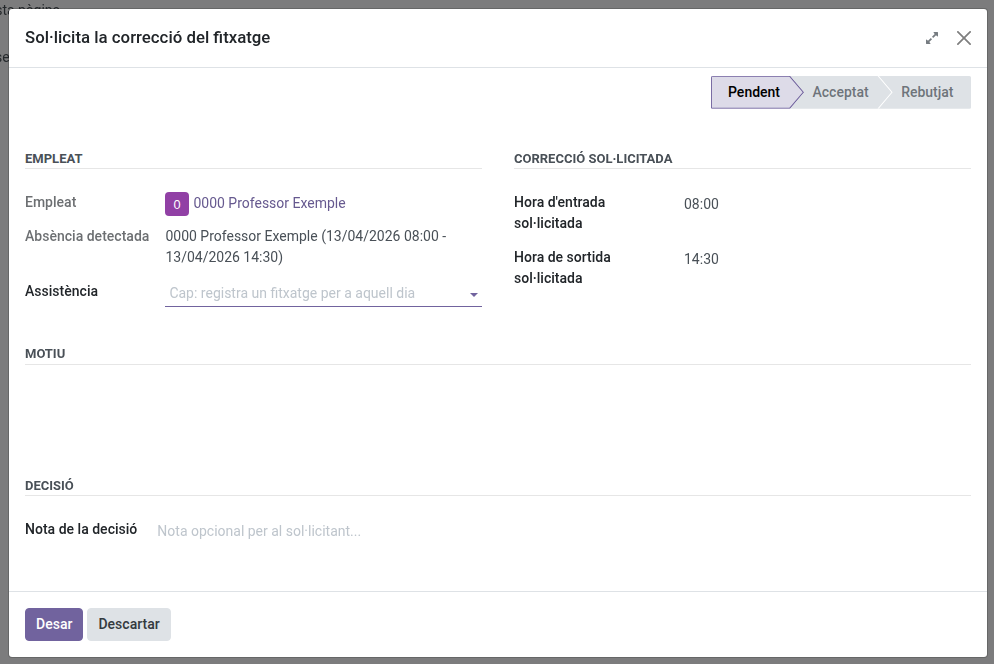
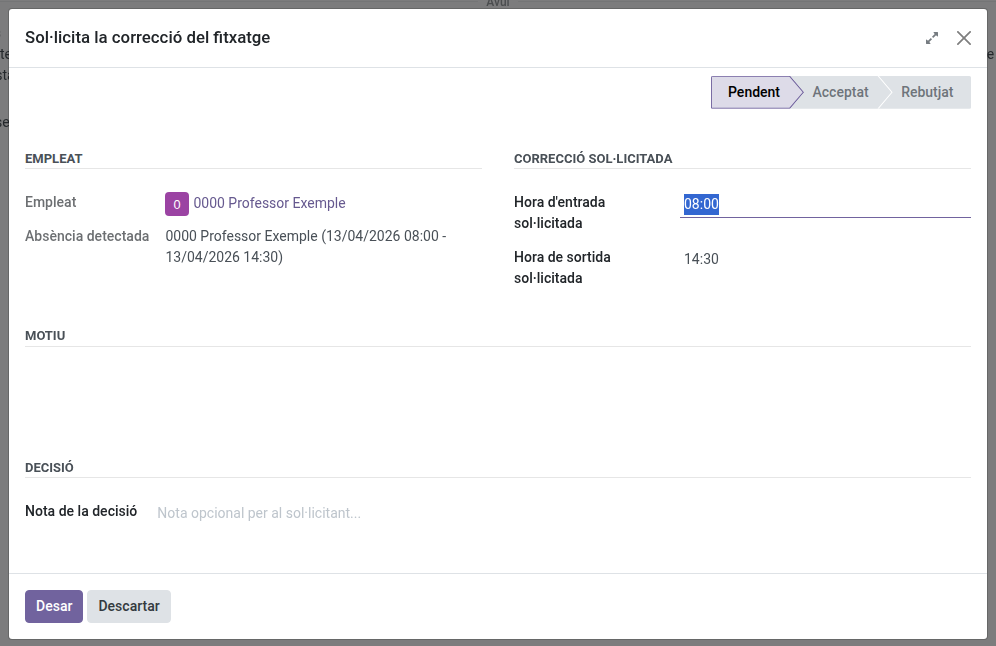
735: attendance chosen automatically (red one for a day without check-in), teacher notices on the detected absence

diff --git a/static/tests/tours/absence_pending_tour.js b/static/tests/tours/absence_pending_tour.js
@@ -79,6 +79,11 @@ registry.category("web_tour.tours").add("ems_absence_pending_teacher", {
             trigger: ".o_form_statusbar .o_field_widget[name='state']:not(:has([data-value='pending']))",
             content: "Without the 'To review' step, a stage the teacher never sees (issue #707)",
         },
+        {
+            // Issue #735: both ways out, one sentence each.
+            trigger: ".o_form_view .alert-info p:nth-of-type(2)",
+            content: "A notice tells the teacher what to do",
+        },
         ...clickAction("action_request_absence", "Request the absence"),
         {
             trigger: ".o_form_view .o_field_widget[name='request_date_from'] input",
@@ -125,8 +130,8 @@ registry.category("web_tour.tours").add("ems_absence_pending_teacher", {
             run: "click",
         },
         {
-            trigger: "body:not(:has(.modal)) .o_form_view .o_field_widget[name='origin']",
-            content: "Back on the detected absence",
+            trigger: "body:not(:has(.modal)) .o_form_view .alert-info:not(:has(p))",
+            content: "Back on the detected absence, which now says the correction is being reviewed",
         },
     ],
 });

diff --git a/models/attendance/attendance_correction.py b/models/attendance/attendance_correction.py
@@ -45,8 +45,6 @@ class ems_attendance_correction(models.Model):
         readonly=True,
         default=lambda self: self.env.context.get("default_absence_pending_id"),
     )
-    allowed_attendance_ids = fields.Many2many(
-        string="Attendances of that day", comodel_name="hr.attendance", compute="_compute_allowed_attendance_ids")
     employee_id = fields.Many2one(
         string="Employee", comodel_name="hr.employee", compute="_compute_employee_id", store=True, readonly=True)
     # NOTE: snapshotted at create() time (not related to attendance_id.check_in/out) so the
@@ -54,6 +52,9 @@ class ems_attendance_correction(models.Model):
     # is what lets action_reject()/re-deciding restore it later.
     original_check_in = fields.Datetime(string="Original check-in", readonly=True)
     original_check_out = fields.Datetime(string="Original check-out", readonly=True)
+    # Issue #735: about the technical attendance Odoo's absence detection leaves on a day without
+    # check-in (shown in red): accepting it turns it into a real one, rejecting it restores it.
+    original_technical = fields.Boolean(string="Day without check-in", readonly=True)
     requested_check_in = fields.Float(string="Requested check-in time", default=lambda self: self._default_requested_time("check_in"))
     requested_check_out = fields.Float(string="Requested check-out time", default=lambda self: self._default_requested_time("check_out"))
     reason = fields.Text(string="Reason", required=True)
@@ -82,12 +83,6 @@ class ems_attendance_correction(models.Model):
     def _compute_employee_id(self):
         for correction in self:
             correction.employee_id = correction.attendance_id.employee_id or correction.absence_pending_id.employee_id
-
-    @api.depends("absence_pending_id")
-    def _compute_allowed_attendance_ids(self):
-        """The attendances the teacher may pick on a detected absence's day (issue #735)."""
-        for correction in self:
-            correction.allowed_attendance_ids = correction.absence_pending_id._ems_day_attendances()
 
     @api.depends("employee_id", "attendance_id.check_in", "absence_pending_id.date_from")
     def _compute_display_name(self):
@@ -142,13 +137,14 @@ class ems_attendance_correction(models.Model):
     def _default_requested_time(self, kind):
         # NOTE: defaults to the original time so the requester only has to tweak what's wrong.
         attendance = self._get_correction_attendance()
-        if not attendance:
-            # A detected absence's day without any attendance: its own hours (issue #735).
-            absence = self.env["ems.absence_pending"].browse(self.env.context.get("default_absence_pending_id"))
-            if not absence:
-                return False
-            moment = absence.date_from if kind == "check_in" else absence.date_to
-            return self.time_to_float(self.utc_datetime_to_local(moment).time())
+        absence = self.env["ems.absence_pending"].browse(self.env.context.get("default_absence_pending_id"))
+        if not attendance or attendance.in_mode == "technical":
+            # A day without check-in (issue #735): no time worth keeping, the technical
+            # attendance's are midnight. The detected absence's own hours, or the schedule's.
+            if absence:
+                moment = absence.date_from if kind == "check_in" else absence.date_to
+                return self.time_to_float(self.utc_datetime_to_local(moment).time())
+            return attendance and self._schedule_time_for(attendance, kind)
         original = attendance.check_in if kind == "check_in" else attendance.check_out
         if original:
             return self.time_to_float(self.utc_datetime_to_local(original).time())
@@ -182,29 +178,16 @@ class ems_attendance_correction(models.Model):
 
     @api.constrains("attendance_id", "absence_pending_id", "requested_check_in", "requested_check_out")
     def _check_attendance_or_absence(self):
-        """Issue #735: about an attendance, or about a detected absence's day: then the attendance
-        must be the same teacher's, and without one both times are needed and in order."""
+        """Issue #735: about an attendance, or about a detected absence's day; without an
+        attendance, or with the technical one of a day without check-in, both times are needed,
+        in order."""
         for correction in self:
             absence = correction.absence_pending_id
             if not correction.attendance_id and not absence:
                 raise ValidationError(_("A correction request must be about an attendance or a detected absence."))
-            if correction.attendance_id and absence and correction.attendance_id.employee_id != absence.employee_id:
-                raise ValidationError(_("The attendance must be the detected absence teacher's own."))
-            if not correction.attendance_id and not (
+            if (not correction.attendance_id or correction.original_technical) and not (
                     correction.requested_check_in and correction.requested_check_in < correction.requested_check_out):
-                raise ValidationError(_("Without an attendance to correct, give both the check-in and a later check-out time."))
-
-    @api.onchange("attendance_id")
-    def _onchange_attendance_id(self):
-        """Picking another attendance of a detected absence's day starts from its own times, and no
-        attendance from the absence's hours (issue #735)."""
-        if not self.absence_pending_id:
-            return
-        local = self.utc_datetime_to_local
-        moments = ((self.attendance_id.check_in, self.attendance_id.check_out) if self.attendance_id
-                   else (self.absence_pending_id.date_from, self.absence_pending_id.date_to))
-        self.requested_check_in, self.requested_check_out = (
-            moment and self.time_to_float(local(moment).time()) for moment in moments)
+                raise ValidationError(_("For a day without check-in, give both the check-in and a later check-out time."))
 
     @api.model_create_multi
     def create(self, vals_list):
@@ -215,13 +198,17 @@ class ems_attendance_correction(models.Model):
             # the base create() (_add_missing_default_values), which runs *after* this
             # override. Falling back to the context default here (instead of assuming vals
             # already has it) is what actually resolves the real attendance record.
-            attendance_id = vals.get("attendance_id", self.env.context.get("default_attendance_id"))
-            attendance = self.env["hr.attendance"].browse(attendance_id)
+            attendance_id = vals.get("attendance_id") or self.env.context.get("default_attendance_id")
             absence_id = vals.get("absence_pending_id") or self.env.context.get("default_absence_pending_id")
             if absence_id:
-                self.env["ems.absence_pending"].browse(absence_id)._ems_check_correction_requestable()
+                # Issue #735: the attendance is never the teacher's choice, whatever the client sent.
+                absence = self.env["ems.absence_pending"].browse(absence_id)
+                absence._ems_check_correction_requestable()
+                attendance_id = vals["attendance_id"] = absence._ems_attendance_to_correct().id
+            attendance = self.env["hr.attendance"].browse(attendance_id)
             vals.setdefault("original_check_in", attendance.check_in)
             vals.setdefault("original_check_out", attendance.check_out)
+            vals["original_technical"] = attendance.in_mode == "technical"
             # Defense-in-depth: the view hides requested_check_out via is_check_out_requestable,
             # but a stale/tampered client could still send a value - never trust it once the
             # server-side check says the check-out isn't requestable yet.
@@ -324,6 +311,10 @@ class ems_attendance_correction(models.Model):
                 values["check_in"] = correction.original_check_in
             if correction.requested_check_out:
                 values["check_out"] = correction.original_check_out
+            if values and correction.original_technical:
+                # Back to the day without check-in it was: Odoo turns it into a manual one on
+                # any change of its times (issue #735).
+                values.update({"in_mode": "technical", "out_mode": "technical"})
             if values:
                 correction.attendance_id.sudo().write(values)
             correction._close("rejected")

diff --git a/models/employees/absence_pending.py b/models/employees/absence_pending.py
@@ -103,6 +103,7 @@ class EmsAbsencePending(models.Model):
     can_request = fields.Boolean(compute="_compute_can_request")
     # Issue #735: the teacher, asked to justify it, may answer that they were at the centre.
     can_request_correction = fields.Boolean(string="Can request a check-in correction", compute="_compute_can_request")
+    has_pending_correction = fields.Boolean(string="Check-in correction pending", compute="_compute_can_request")
     correction_ids = fields.One2many(
         string="Check-in correction requests", comodel_name="ems.attendance_correction",
         inverse_name="absence_pending_id", readonly=True)
@@ -152,8 +153,9 @@ class EmsAbsencePending(models.Model):
         now = fields.Datetime.now()
         for absence in self:
             absence.can_request = absence.state in ASKED_STATES and absence.employee_id.user_id == self.env.user
+            absence.has_pending_correction = bool(absence._ems_pending_corrections())
             absence.can_request_correction = (absence.can_request and absence.date_to <= now
-                                              and not absence._ems_pending_corrections())
+                                              and not absence.has_pending_correction)
 
     @api.depends('employee_id')
     @api.depends_context('uid')
@@ -412,16 +414,21 @@ class EmsAbsencePending(models.Model):
     def _ems_pending_corrections(self):
         return self.sudo().correction_ids.filtered(lambda correction: correction.state == 'pending')
 
-    def _ems_day_attendances(self):
-        """The teacher's attendances on the day this entry starts, in the company's timezone,
-        leaving out the technical ones Odoo's own absence detection creates (issue #735)."""
-        if not self:
-            return self.env['hr.attendance']
+    def _ems_attendance_to_correct(self):
+        """The teacher's attendance a correction request of this entry is about, never chosen by
+        the teacher (issue #735), on the day it starts in the company's timezone: the first one
+        from the entry's start on (a late arrival: the one the entry ends at), otherwise the last
+        one before it; with none, the technical one Odoo's absence detection leaves on a day
+        without check-in (the one shown in red, which teachers have always asked to correct);
+        otherwise none, and accepting the request records one."""
         self.ensure_one()
         start, stop = self._utc_bounds(self._to_local(self.date_from).date(), 0.0, 24.0)
-        return self.env['hr.attendance'].sudo().search([
-            ('employee_id', '=', self.employee_id.id), ('check_in', '>=', start), ('check_in', '<', stop),
-            ('in_mode', '!=', 'technical')], order='check_in')
+        attendances = self.env['hr.attendance'].sudo().search([
+            ('employee_id', '=', self.employee_id.id), ('check_in', '>=', start), ('check_in', '<', stop)],
+            order='check_in')
+        real = attendances.filtered(lambda attendance: attendance.in_mode != 'technical')
+        after = real.filtered(lambda attendance: attendance.check_in >= self.date_from)
+        return after[:1] or real[-1:] or attendances[:1]
 
     def _ems_check_correction_requestable(self):
         """Checked on the server whatever the screen offered (issue #735)."""
@@ -431,13 +438,13 @@ class EmsAbsencePending(models.Model):
                               "they were asked to justify, once it is over and while no other one is pending."))
 
     def action_request_check_in_correction(self):
-        """Issue #735: the teacher was at the centre. Opens a correction request of the attendance
-        they have that day, the first one by default, or of the day itself when they have none:
-        the approver accepting it records the attendance, and its review closes this entry."""
+        """Issue #735: the teacher was at the centre. Opens a correction request of their attendance
+        that day (_ems_attendance_to_correct), or of the day itself when they have none: the
+        approver accepting it records the attendance, and that resolves this entry."""
         self.ensure_one()
         self._ems_check_correction_requestable()
         context = {'default_absence_pending_id': self.id}
-        attendance = self._ems_day_attendances()[:1]
+        attendance = self._ems_attendance_to_correct()
         if attendance:
             context['default_attendance_id'] = attendance.id
         return {

diff --git a/tests/test_absence_detection.py b/tests/test_absence_detection.py
@@ -886,9 +886,8 @@ class TestAbsenceDetection(TransactionCase):
         with self.assertRaises(ValidationError, msg='without attendance, a check-out after the check-in'):
             self._request_correction(absence, requested_check_in=12.0, requested_check_out=11.0)
         other = self.env['hr.attendance'].search([('employee_id', '=', self.present.id)], limit=1)
-        # Refused by the constraint or, before it, by the teacher's own-data rule.
-        with self.assertRaises(Exception, msg="another teacher's attendance"):
-            self._request_correction(absence, attendance_id=other.id)
+        # Never the teacher's choice, whatever the client sends: they have none that day.
+        self.assertFalse(self._request_correction(absence, attendance_id=other.id).attendance_id)
 
     def test_no_reminder_while_the_correction_is_pending(self):
         self.Pending._ems_detect_missing_check_ins(self.yesterday)
@@ -902,3 +901,31 @@ class TestAbsenceDetection(TransactionCase):
         self._run_cron_on(self.today)
         self.assertTrue(reminders(), 'rejected: asked again')
         self.assertTrue(absence.with_user(self.teacher_user).can_request_correction)
+
+    def test_teacher_requests_the_red_attendance_of_a_day_without_check_in(self):
+        """The technical attendance Odoo's absence detection leaves on a day without check-in (in
+        red) is the one corrected, as teachers have always done; rejecting restores it."""
+        self.Pending._ems_detect_missing_check_ins(self.yesterday)
+        absence = self._asked(self._detected())
+        red = self.env['hr.attendance'].create({
+            'employee_id': self.teacher.id, 'check_in': self._utc(self.yesterday, 0.0),
+            'check_out': self._utc(self.yesterday, 0.0) + timedelta(seconds=1),
+            'in_mode': 'technical', 'out_mode': 'technical',
+        })
+        self.assertEqual(absence.with_user(self.teacher_user).action_request_check_in_correction()['context'][
+            'default_attendance_id'], red.id)
+
+        correction = self._request_correction(absence)
+        self.assertEqual(correction.attendance_id, red)
+        self.assertTrue(correction.original_technical)
+        self.assertEqual((correction.requested_check_in, correction.requested_check_out), (9.0, 13.0),
+                         "the entry's own hours, not the red one's midnight")
+
+        correction.with_user(self.head_of_studies).action_accept()
+        self.assertEqual((red.check_in, red.check_out, red.in_mode),
+                         (self._utc(self.yesterday, 9.0), self._utc(self.yesterday, 13.0), 'manual'))
+        self.assertEqual(absence.state, 'corrected')
+
+        correction.with_user(self.head_of_studies).action_reject()
+        self.assertEqual((red.check_in, red.in_mode, red.out_mode), (self._utc(self.yesterday, 0.0), 'technical', 'technical'),
+                         'a day without check-in again')

diff --git a/tests/test_docs_screenshots_teachers.py b/tests/test_docs_screenshots_teachers.py
@@ -65,9 +65,9 @@ class TestDocsScreenshotsTeachers(DocsScreenshotMixin, HttpCase):
 
     def test_capture_detected_absence(self):
         """The teacher's own detected absence, from a missing check-in, as the reminder's link
-        opens it once a justification was requested: Request the absence or Request check-in
-        correction, in the Actions dropdown (issues #696, #707, #735); then the correction
-        request it opens. A past day: the correction is only offered once the absence is over."""
+        opens it once a justification was requested: the notice with what to do, Request the
+        absence or Request check-in correction from the Actions dropdown (issues #696, #707,
+        #735); then the correction request it opens, and the menu that lists them. A past day: the correction is only offered once the absence is over."""
         mock_outgoing_email(self)
         Pending = self.env['ems.absence_pending']
         day = datetime(2026, 4, 13).date()
@@ -85,9 +85,8 @@ class TestDocsScreenshotsTeachers(DocsScreenshotMixin, HttpCase):
         self._capture(
             '/odoo/ems.absence_pending/%d' % absence.id,
             '.o_content', 'teachers-detected-absence.png',
-            login='doc_shot_teacher', wait_for=toggle, click=toggle, wait_after=correction,
-            # The dropdown closes when Chrome resizes the page to shoot beyond the viewport.
-            max_height=360, beyond_viewport=False,
+            # The notice telling the teacher what to do; the dropdown would cover it.
+            login='doc_shot_teacher', wait_for=".o_form_view .alert-info p:nth-of-type(2)", max_height=360,
         )
         # Issue #735: Absences to regularize, from the Absences menu.
         absences_menu = ".o_menu_sections button[data-menu-xmlid='hr_holidays.menu_hr_holidays_root']"

diff --git a/docs/ca/teachers/absences.md b/docs/ca/teachers/absences.md
@@ -177,12 +177,12 @@ No cal que esperis el missatge: tan bon punt te la demanen, l'absència surt a *
 
 ![El menú Absències d'un docent, amb Les meves absències i Absències per regularitzar](../../assets/teachers/teachers-absences-to-regularize-menu.png)
 
-Què has de fer:
+La mateixa absència t'indica, en un avís blau a dalt, què s'espera que facis (o que la teva correcció del fitxatge s'està revisant). Què has de fer:
 
 - **Si vas faltar**, obre l'enllaç i fes servir **Sol·licita l'absència** (a dalt del formulari). S'obre una sol·licitud d'absència nova amb el dia i les hores ja posats (i el tipus, si te l'ha preparat el teu cap d'estudis): tria el tipus, completa el que falti i envia-la com sempre (consulta [Enviar la sol·licitud](#enviar-la-sollicitud)). Un cop enviada, l'absència detectada queda vinculada a la teva sol·licitud i s'acaben els recordatoris.
-- **Si eres al centre i et vas oblidar de fitxar** (o vas fitxar més tard del que vas arribar), obre l'enllaç i fes servir **Sol·licita la correcció del fitxatge** (a dalt del formulari, un cop acabada l'absència). Si aquell dia vas fitxar, es corregeix el teu primer fitxatge, i en pots triar un altre; si no en tens cap, deixa el camp **Assistència** buit i es registra un fitxatge per a aquell dia. Escriu les hores d'arribada i de sortida (`9:15`, `9.15`, `9,15` i `915` volen dir les 9:15), explica el motiu i desa. Mentre el teu cap d'estudis decideix, s'aturen els recordatoris. Si l'accepta, es registra el teu fitxatge i l'absència detectada queda corregida; si la rebutja, se't torna a recordar i pots sol·licitar l'absència.
+- **Si eres al centre i et vas oblidar de fitxar** (o vas fitxar més tard del que vas arribar), obre l'enllaç i fes servir **Sol·licita la correcció del fitxatge** (a dalt del formulari, un cop acabada l'absència). Si aquell dia vas fitxar (tard, per exemple), es corregeix aquest fitxatge; si no en tens cap, es registra un fitxatge per a aquell dia. Escriu les hores d'arribada i de sortida (`9:15`, `9.15`, `9,15` i `915` volen dir les 9:15), explica el motiu i desa. Mentre el teu cap d'estudis decideix, s'aturen els recordatoris. Si l'accepta, es registra el teu fitxatge i l'absència detectada queda corregida; si la rebutja, se't torna a recordar i pots sol·licitar l'absència.
 
-![Una absència detectada tal com la veu el docent, amb les dues opcions al desplegable Accions](../../assets/teachers/teachers-detected-absence.png)
+![Una absència detectada tal com la veu el docent, amb l'avís que li diu què ha de fer](../../assets/teachers/teachers-detected-absence.png)
 
 ![La sol·licitud de correcció del fitxatge oberta des d'una absència detectada, per a un dia sense cap fitxatge](../../assets/teachers/teachers-detected-absence-correction.png)
 

diff --git a/docs/es/teachers/absences.md b/docs/es/teachers/absences.md
@@ -177,12 +177,12 @@ No hace falta que esperes el mensaje: en cuanto te la piden, la ausencia aparece
 
 ![El menú Ausencias de un docente, con Mis ausencias y Ausencias por regularizar](../../assets/teachers/teachers-absences-to-regularize-menu.png)
 
-Qué tienes que hacer:
+La propia ausencia te indica, en un aviso azul arriba, qué se espera que hagas (o que tu corrección del fichaje se está revisando). Qué tienes que hacer:
 
 - **Si faltaste**, abre el enlace y usa **Solicitar la ausencia** (arriba del formulario). Se abre una solicitud de ausencia nueva con el día y las horas ya puestos (y el tipo, si te la ha preparado tu jefe de estudios): elige el tipo, completa lo que falte y envíala como siempre (consulta [Enviar la solicitud](#enviar-la-solicitud)). Una vez enviada, la ausencia detectada queda vinculada a tu solicitud y se acaban los recordatorios.
-- **Si estabas en el centro y olvidaste fichar** (o fichaste más tarde de cuando llegaste), abre el enlace y usa **Solicitar la corrección del fichaje** (arriba del formulario, una vez terminada la ausencia). Si ese día fichaste, se corrige tu primer fichaje, y puedes elegir otro; si no tienes ninguno, deja el campo **Asistencia** vacío y se registra un fichaje para ese día. Escribe las horas de llegada y de salida (`9:15`, `9.15`, `9,15` y `915` significan las 9:15), explica el motivo y guarda. Mientras tu jefe de estudios decide, se detienen los recordatorios. Si la acepta, se registra tu fichaje y la ausencia detectada queda corregida; si la rechaza, se te vuelve a recordar y puedes solicitar la ausencia.
+- **Si estabas en el centro y olvidaste fichar** (o fichaste más tarde de cuando llegaste), abre el enlace y usa **Solicitar la corrección del fichaje** (arriba del formulario, una vez terminada la ausencia). Si ese día fichaste (tarde, por ejemplo), se corrige ese fichaje; si no tienes ninguno, se registra un fichaje para ese día. Escribe las horas de llegada y de salida (`9:15`, `9.15`, `9,15` y `915` significan las 9:15), explica el motivo y guarda. Mientras tu jefe de estudios decide, se detienen los recordatorios. Si la acepta, se registra tu fichaje y la ausencia detectada queda corregida; si la rechaza, se te vuelve a recordar y puedes solicitar la ausencia.
 
-![Una ausencia detectada tal como la ve el docente, con las dos opciones en el desplegable Acciones](../../assets/teachers/teachers-detected-absence.png)
+![Una ausencia detectada tal como la ve el docente, con el aviso que le dice qué tiene que hacer](../../assets/teachers/teachers-detected-absence.png)
 
 ![La solicitud de corrección del fichaje abierta desde una ausencia detectada, para un día sin ningún fichaje](../../assets/teachers/teachers-detected-absence-correction.png)
 

diff --git a/docs/en/teachers/absences.md b/docs/en/teachers/absences.md
@@ -176,12 +176,12 @@ You don't need to wait for the message: as soon as you are asked, the absence sh
 
 ![The Absences menu of a teacher, with My Time Off and Absences to regularize](../../assets/teachers/teachers-absences-to-regularize-menu.png)
 
-What to do:
+The absence itself tells you, in a blue notice at the top, what is expected of you (or that your check-in correction is being reviewed). What to do:
 
 - **If you were absent**, open the link and use **Request the absence** (at the top of the form). It opens a new absence request with the day and the hours already filled in (and the type, if your Head of Studies prepared it): choose the type, add what is missing and send it as usual (see [Sending the request](#sending-the-request)). Once sent, the detected absence is linked to your request and the reminders stop.
-- **If you were at the centre and forgot to check in** (or checked in later than you arrived), open the link and use **Request check-in correction** (at the top of the form, once the absence is over). If you checked in that day, your first check-in is the one corrected, and you can pick another one; if you have none, leave the **Attendance** field empty and a check-in is recorded for that day. Type the times you arrived and left (`9:15`, `9.15`, `9,15` and `915` all mean 9:15), say why and save. While your Head of Studies decides, the reminders stop. If they accept it, your check-in is recorded and the detected absence is corrected; if they reject it, you are reminded again and can request the absence instead.
+- **If you were at the centre and forgot to check in** (or checked in later than you arrived), open the link and use **Request check-in correction** (at the top of the form, once the absence is over). If you checked in that day (late, for instance), that check-in is the one corrected; if you have none, a check-in is recorded for that day. Type the times you arrived and left (`9:15`, `9.15`, `9,15` and `915` all mean 9:15), say why and save. While your Head of Studies decides, the reminders stop. If they accept it, your check-in is recorded and the detected absence is corrected; if they reject it, you are reminded again and can request the absence instead.
 
-![A detected absence as the teacher sees it, with its two options in the Actions dropdown](../../assets/teachers/teachers-detected-absence.png)
+![A detected absence as the teacher sees it, with the notice telling them what to do](../../assets/teachers/teachers-detected-absence.png)
 
 ![The check-in correction request opened from a detected absence, for a day without any check-in](../../assets/teachers/teachers-detected-absence-correction.png)
 

diff --git a/docs/en/developers/employees/absence.md b/docs/en/developers/employees/absence.md
@@ -747,6 +747,7 @@ erDiagram
 | `can_request` | Non-stored, `@api.depends_context('uid')`: the user is the teacher and the entry is in `ASKED_STATES`. Shows **Request the absence** |
 | `can_request_correction` | Same, and the entry is over and has no `pending` correction request: shows **Request check-in correction** (issue #735) |
 | `correction_ids` | The teacher's correction requests (`ems.attendance_correction.absence_pending_id`) |
+| `has_pending_correction` | One of them is `pending`. With `can_request`, `can_request_correction` and `state` it picks the blue notice the teacher reads at the top of the form: asked to justify, absence prepared, or correction under review (issue #735) |
 | `can_review`, `can_correct_check_in` | Non-stored, `@api.depends_context('uid')`: the entry is `pending` and the user may review it (below); the second also needs the entry to be over (no check-in can be recorded for a time still to come). Drive the four actions' `invisible=` |
 
 ### Reviewing
@@ -849,9 +850,11 @@ teachers keep the plain link.
 **Or asking for a check-in correction (issue #735).** **Request check-in correction** (same
 place, same teacher, once the entry is over and while none of theirs is pending) calls
 `action_request_check_in_correction()`: an `ems.attendance_correction` form in a dialog, with
-`default_absence_pending_id` and, when the teacher has an attendance that day
-(`_ems_day_attendances()`, technical ones left out), the first one as `default_attendance_id`.
-The teacher may pick another attendance of that day or none (`allowed_attendance_ids`):
+`default_absence_pending_id` and the attendance it is about as `default_attendance_id`. That
+attendance is never the teacher's choice: `_ems_attendance_to_correct()` takes, on the entry's
+day, the first one from the entry's start on (a late arrival: the one the entry ends at),
+otherwise the last one before it, otherwise none (technical ones left out). The form hides it,
+and `create()` imposes it whatever the client sends:
 
 - **With an attendance**, it is the usual correction request of that attendance.
 - **Without**, both times are required, in order; they default to the entry's own hours, and

diff --git a/changelog/735-justification-request-button.md b/changelog/735-justification-request-button.md
@@ -4,6 +4,8 @@
 
 - A teacher asked to justify a detected absence (or with the absence prepared for them) now gets both options in the form's Actions dropdown: **Request the absence** and, once the absence is over, **Request check-in correction**. Before, the only way to say "I was at the centre" was to ask the Head of Studies by other means.
 - It reuses the usual attendance correction request (`ems.attendance_correction`), now linked to the detected absence (`absence_pending_id`). Two scenarios: the teacher has an attendance that day (the first one is preselected, another can be picked) and it is corrected as usual; or they have none, then both times are required (prefilled with the absence's hours) and accepting the request creates the attendance (such a request can't be rejected once accepted: the approver corrects or deletes the attendance).
+- The attendance the request is about is never the teacher's choice (hidden in the dialog, imposed by the server): a real check-in of that day if there is one (e.g. a late arrival), otherwise the red technical attendance Odoo leaves on a day without check-in (the one teachers have always asked to correct), otherwise a new one recorded on acceptance. For a red one, the requested times default to the absence's (also from the classic "Request Correction" on a red attendance, which now proposes the schedule's times instead of 00:00); accepting turns it into a real attendance and rejecting restores it as a red one (rejecting a pending request no longer turns it into a manual attendance either).
+- The detected absence's form shows the teacher a blue notice with what is expected of them: request the absence or a check-in correction, send the absence prepared for them, or wait for their correction to be reviewed.
 - Accepting resolves the detected absence as **Check-in corrected** once nothing is missed (a detected one keeps the part still missed, as its review would). The teacher's reminders pause while the request is pending and resume if it is rejected.
 
 ## Times typed by hand are read as hours and minutes:

diff --git a/docs/en/developers/attendance/attendance_correction.md b/docs/en/developers/attendance/attendance_correction.md
@@ -16,7 +16,6 @@
 |-------|------|----------|--------|-------------|
 | `attendance_id` | `Many2one → hr.attendance` | Yes, unless `absence_pending_id` | Yes | The attendance record being corrected. Empty for a teacher's request about a detected absence's day with no attendance: accepting it creates one and sets it here |
 | `absence_pending_id` | `Many2one → ems.absence_pending` | No | Yes | The detected absence the teacher answers with this request (issue #735, see [absence.md](../employees/absence.md)) |
-| `allowed_attendance_ids` | `Many2many → hr.attendance` (computed) | — | No | The teacher's attendances on that detected absence's day, the choices for `attendance_id` |
 | `employee_id` | `Many2one → hr.employee` (computed) | — | Yes | `attendance_id.employee_id`, or the detected absence's teacher |
 | `original_check_in` | `Datetime` (snapshotted at `create()`) | — | Yes | `attendance_id.check_in` at the time the request was made — not related, so it survives `action_accept()` overwriting the attendance |
 | `original_check_out` | `Datetime` (snapshotted at `create()`) | — | Yes | `attendance_id.check_out` at the time the request was made, same reasoning |
